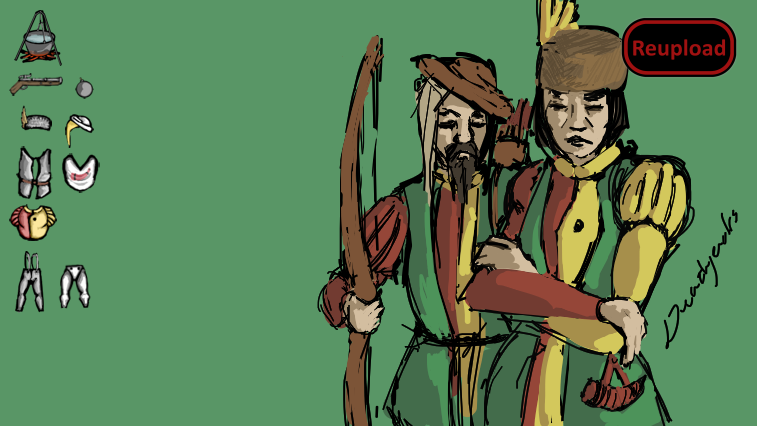
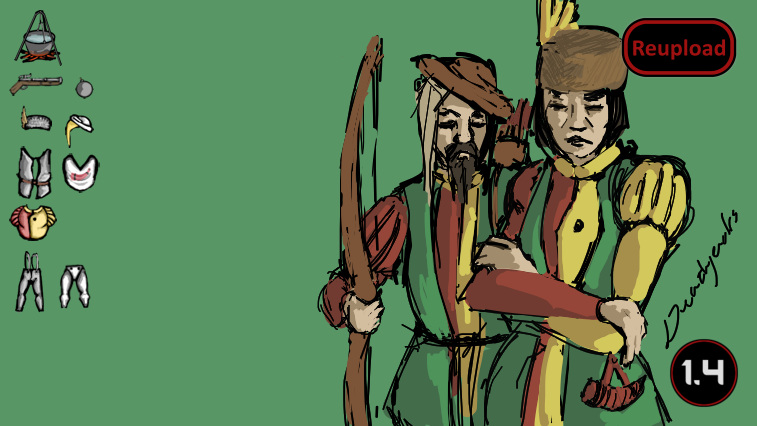
Last update, added end-of-life message

Changed region(s): [[0.8811, 0.7934, 0.9723, 0.9765]]

diff --git a/README.md b/README.md
@@ -4,7 +4,7 @@
 
 Update of KompadTs mod https://steamcommunity.com/sharedfiles/filedetails/?id=1733501512
 
-![Image](https://i.imgur.com/pufA0kM.png)
+![Image](https://i.imgur.com/KFjAmff.png)
 
 	
 ![Image](https://i.imgur.com/Z4GOv8H.png)
@@ -50,10 +50,13 @@ https://steamcommunity.com/sharedfiles/filedetails/?id=1953175950
 
 -  See if the the error persists if you just have this mod and its requirements active.
 -  If not, try adding your other mods until it happens again.
--  Post your error-log using https://steamcommunity.com/workshop/filedetails/?id=818773962]HugsLib and command Ctrl+F12
+-  Post your error-log using https://steamcommunity.com/workshop/filedetails/?id=818773962]HugsLib or the standalone https://steamcommunity.com/sharedfiles/filedetails/?id=2873415404]Uploader and command Ctrl+F12
 -  For best support, please use the Discord-channel for error-reporting.
 -  Do not report errors by making a discussion-thread, I get no notification of that.
 -  If you have the solution for a problem, please post it to the GitHub repository.
+-  Use https://github.com/RimSort/RimSort/releases/latest]RimSort to sort your mods
 
 
-https://steamcommunity.com/sharedfiles/filedetails/changelog/2971780621]Last updated 2023-06-11
+
+https://steamcommunity.com/sharedfiles/filedetails/changelog/2971780621]![Image](https://img.shields.io/github/v/release/emipa606/WarhammerDeathjacks?label=latest%20version&style=plastic&color=9f1111&labelColor=black)
+
